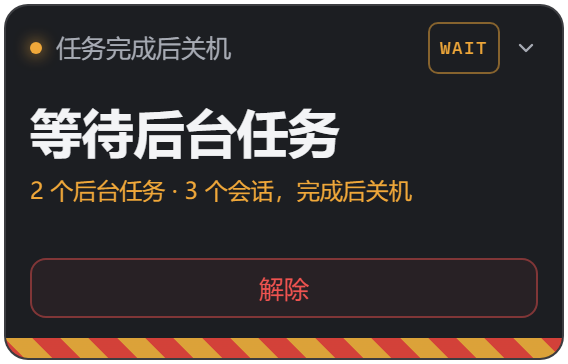
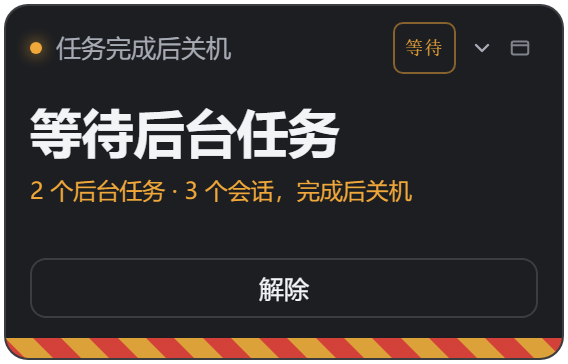
docs(readme): document the floating window and refresh the v1.5.2 screenshots

diff --git a/README.ru.md b/README.ru.md
@@ -92,6 +92,8 @@
 
 ## Прочее
 
+- **Плавающее окно**: кнопка в правом верхнем углу карточки открывает панель состояния в отдельном окне — она остаётся на виду, даже когда вы переключились на другую сессию.
+
 - **Вертикальное сворачивание**: в свёрнутом виде остаются только заголовок и статус; нажмите на заголовок, чтобы развернуть.
 
   <img src="https://cdn.jsdelivr.net/gh/ltayshark0637/dsh-Shutdown-Guard@main/docs/screenshots/16-folded.png" width="250" align="right" alt="Свёрнутое состояние">

diff --git a/README.en.md b/README.en.md
@@ -92,6 +92,8 @@ The card is currently pinned to this sidebar slot. A future version plans to mak
 
 ## Other details
 
+- **Floating window**: the button in the card's top-right corner opens the status panel in a window of its own, so it stays in view when you switch to another session.
+
 - **Vertical collapse**: collapsed it keeps only the title and status; click the title to expand.
 
   <img src="https://cdn.jsdelivr.net/gh/ltayshark0637/dsh-Shutdown-Guard@main/docs/screenshots/16-folded.png" width="250" align="right" alt="Collapsed state">

diff --git a/README.md b/README.md
@@ -92,6 +92,8 @@
 
 ## 其他
 
+- **悬浮窗口**：点卡片右上角按钮可把状态面板拉成独立悬浮窗口，切到别的会话也看得见。
+
 - **纵向折叠**：收起只留标题和状态，点标题展开。
 
   <img src="https://cdn.jsdelivr.net/gh/ltayshark0637/dsh-Shutdown-Guard@main/docs/screenshots/16-folded.png" width="250" align="right" alt="折叠态">
